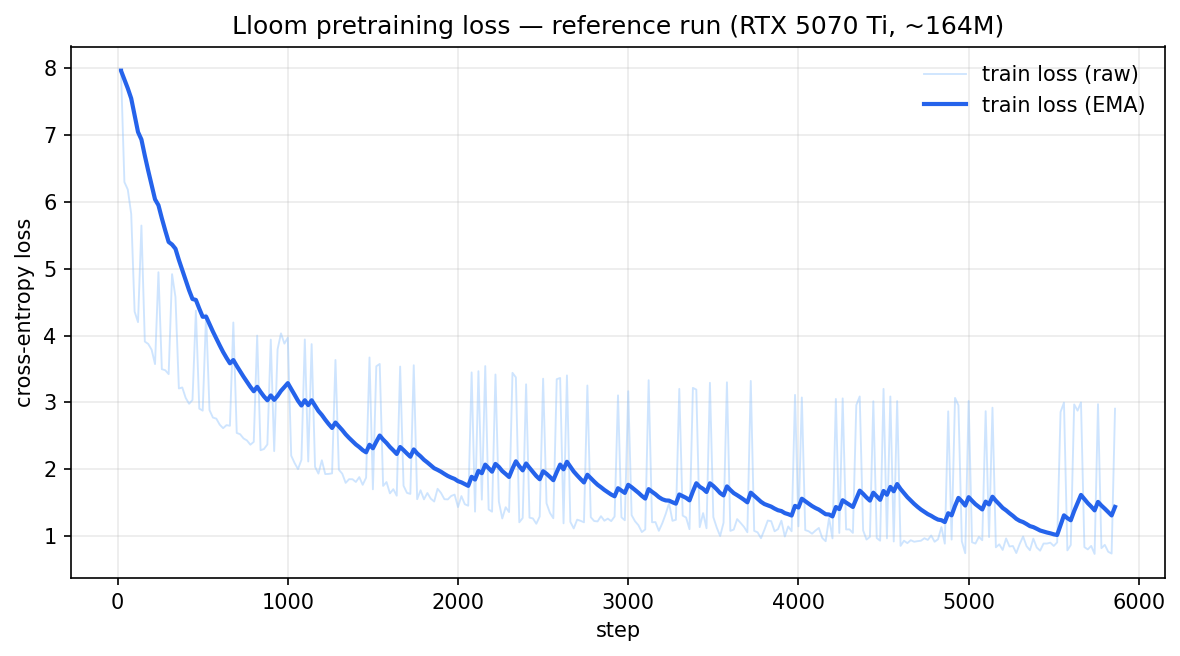
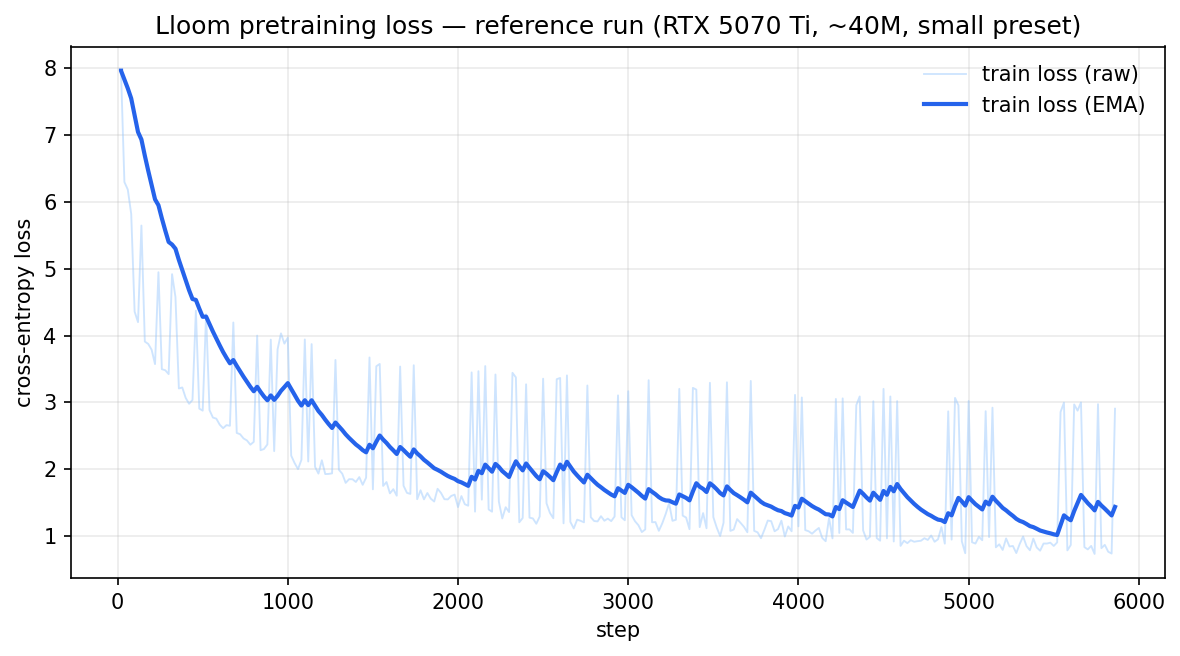
fix: Generated the loss curve png on the wrong parameter count originally 	modified:   README.md 	modified:   docs/assets/loss_curve.png

Changed region(s): [[0.122, 0.0, 0.9153, 0.061]]

diff --git a/README.md b/README.md
@@ -136,7 +136,7 @@ Every run's outputs are namespaced under `runs/<run_name>/` (checkpoints, logs, 
 
 ## Results
 
-Training loss from a reference pretraining run — a ~164M-parameter model on a single RTX 5070 Ti (16 GB). Cross-entropy falls from ~8.0 to a smoothed ~1.4 over 5,860 steps. The faint spikes are the span-corruption objective mixed in per micro-batch (a harder task than plain causal LM); the bold line is its EMA trend.
+Training loss from a reference pretraining run — a ~40M-parameter model (`small` preset) on a single RTX 5070 Ti (16 GB). Cross-entropy falls from ~8.0 to a smoothed ~1.4 over 5,860 steps. The faint spikes are the span-corruption objective mixed in per micro-batch (a harder task than plain causal LM); the bold line is its EMA trend.
 
 ![Lloom pretraining loss](docs/assets/loss_curve.png)
 